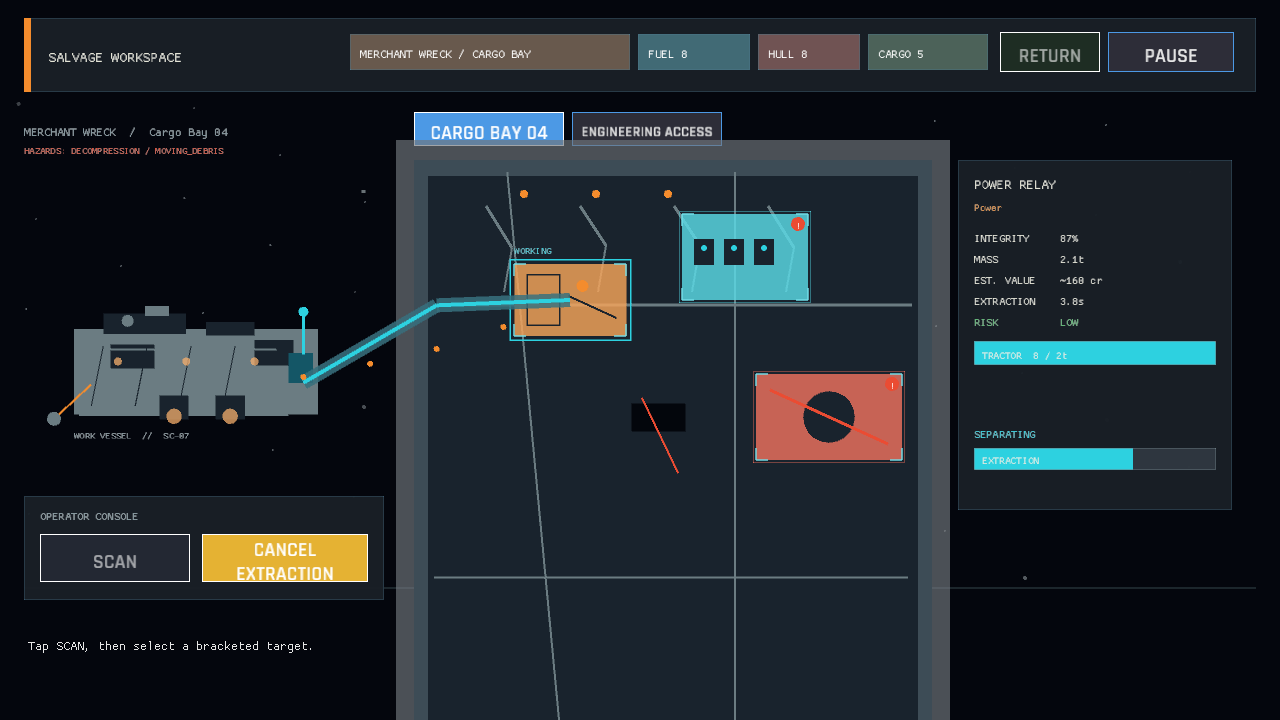
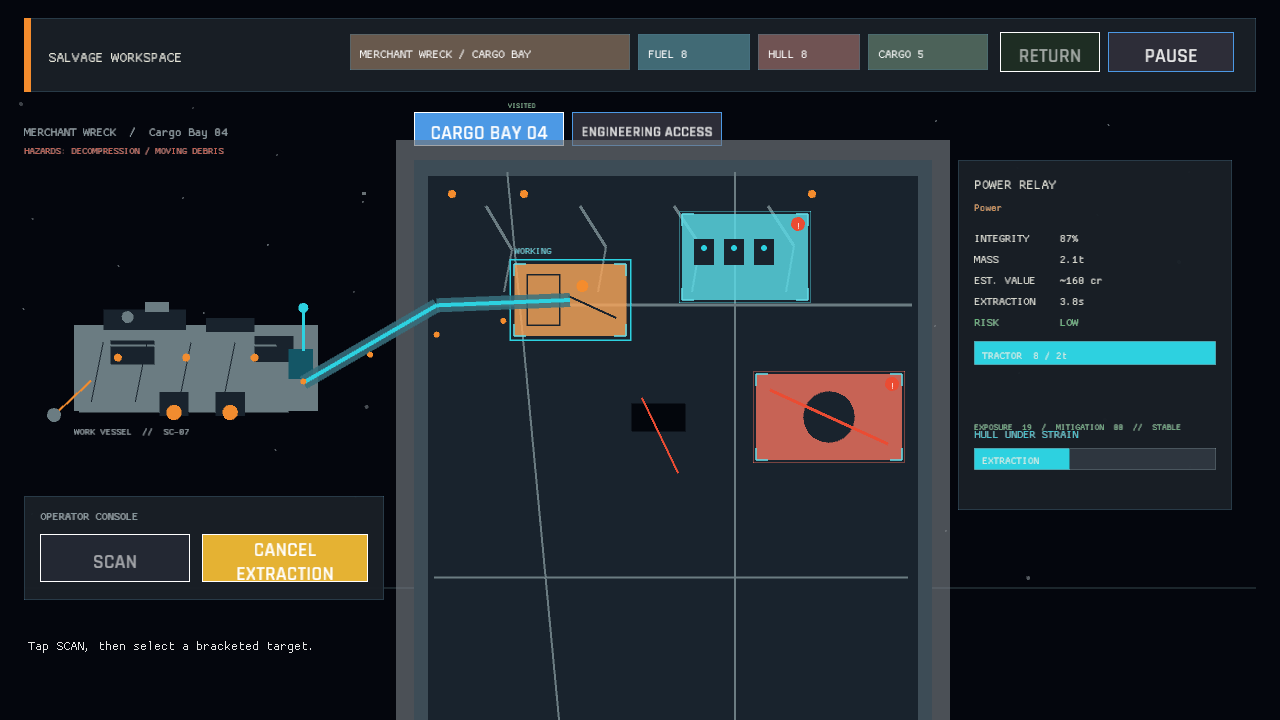
The extraction readout leaves room for the strain warning (risk panel spacing)
The live extraction phase and the static exposure summary shared nearly the same baseline, which made HULL UNDER STRAIN collide with the risk line in the evidence capture. Keep the compact exposure/mitigation report for target inspection and resolved states, and give the animated phase readout the panel space during an active pull.\n\nVerified with cargo fmt --check, 26 passing tests, and git diff --check.\n\nCo-Authored-By: Codex <noreply@openai.com>

diff --git a/src/ui/extraction_panel.rs b/src/ui/extraction_panel.rs
@@ -108,23 +108,27 @@ pub fn draw_target_panel(ctx: &UiContext<'_>, layout: SalvageLayout, actions: &m
         );
     }
     let report_y = layout.target_panel.y + 270.0;
-    if let Some(report) = ctx.workspace_risk {
-        let report_color = match report.outcome {
-            WorkspaceOutcome::Recovered => visual_theme::safe(),
-            WorkspaceOutcome::DamagedHull | WorkspaceOutcome::LostTarget => visual_theme::warning(),
-        };
-        draw_text(
-            format!(
-                "EXPOSURE  {:02}  /  MITIGATION  {:02}  //  {}",
-                report.exposure,
-                report.mitigation,
-                exposure_label(report.exposure)
-            ),
-            layout.target_panel.x + 16.0,
-            report_y,
-            11.0,
-            report_color,
-        );
+    if ctx.workspace_extraction_target.is_none() {
+        if let Some(report) = ctx.workspace_risk {
+            let report_color = match report.outcome {
+                WorkspaceOutcome::Recovered => visual_theme::safe(),
+                WorkspaceOutcome::DamagedHull | WorkspaceOutcome::LostTarget => {
+                    visual_theme::warning()
+                }
+            };
+            draw_text(
+                format!(
+                    "EXPOSURE  {:02}  /  MITIGATION  {:02}  //  {}",
+                    report.exposure,
+                    report.mitigation,
+                    exposure_label(report.exposure)
+                ),
+                layout.target_panel.x + 16.0,
+                report_y,
+                11.0,
+                report_color,
+            );
+        }
     }
     if let Some(extraction_target) = ctx.workspace_extraction_target {
         if extraction_target == target_id {
